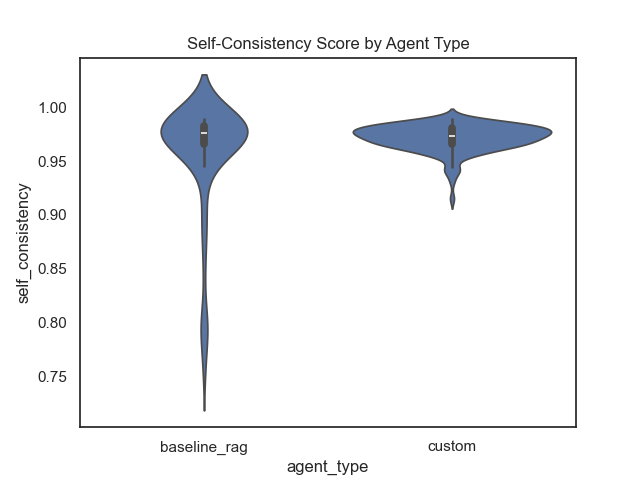
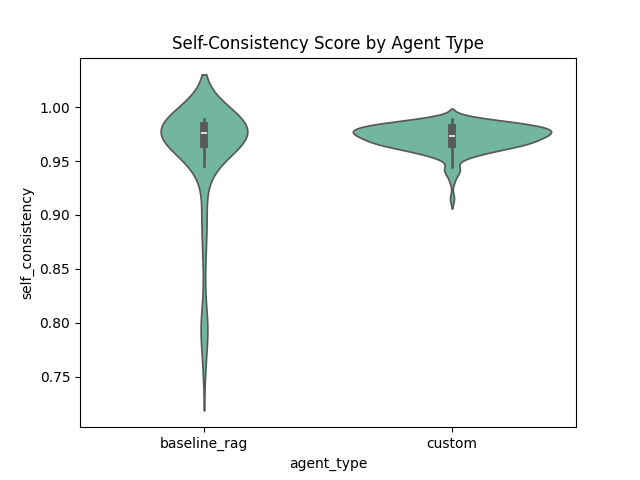
Add section on development tooling and AI assistance; update bibliography with NMBU AI guidelines

diff --git a/thesis/chapters/method.tex b/thesis/chapters/method.tex
@@ -531,3 +531,45 @@ from normality \cite{levene1960} --- a necessary property given the non-normal,
 left-skewed score distributions confirmed by Shapiro-Wilk ($p < 10^{-18}$ for every
 metric).
 
+% -------------------------------------------------------
+
+\section{Development Tooling and AI Assistance}
+
+This section documents the tools and practices used during the development of this thesis — both the software infrastructure supporting the project and the role of AI assistance in the process.
+
+\subsection{Version Control and Repository Structure}
+
+The entire project is maintained in a single Git monorepo hosted on GitHub. This encompasses the agent source code, auxiliary modules (\texttt{ui}, \texttt{evals}, \texttt{data-viewer}), the evaluation datasets, and the \LaTeX{} source for this thesis. Keeping all artefacts in one repository simplifies cross-referencing between the written thesis and the underlying implementation, and allows figures generated in the evaluation notebooks to be committed directly to the \texttt{thesis/figures/} directory — making figure updates a matter of running a notebook cell and committing the result. The only assets not stored in the repository are the datasets and case files, which are hosted in Google Cloud Storage due to their size and confidentiality.
+
+Git's branching model and worktree support were used throughout development. Feature branches isolated experimental work from the stable main branch, and Git worktrees allowed parallel development — for example, running an evaluation trial on one worktree while implementing new features in another — without disrupting the working state.
+
+\subsection{Dependency Management}
+
+Python dependencies are managed with \textbf{uv}, a fast, standards-compliant package manager. \texttt{uv}'s workspace feature allows all four Python packages (\texttt{agent}, \texttt{ui}, \texttt{evals}, \texttt{data-viewer}) to share a single lock file and virtual environment root while maintaining separate dependency declarations per package. This was a key practical consideration for a monorepo of this scope.
+
+\subsection{Report Authoring}
+
+The thesis is written in \LaTeX{} and compiled using \texttt{latexmk}, which automates the multi-pass build required for references, cross-references, and bibliography. The source is version-controlled alongside the codebase, enabling tight coupling between the report and the implementation: code snippets, figures, and table data are all traceable to specific commits.
+
+\subsection{Data Viewer}
+
+A lightweight \textbf{Streamlit} application (\texttt{data-viewer}) was developed to support dataset work and result inspection. It provides a browser-based interface for browsing and editing both training datasets and case files stored in GCS, displaying evaluation results, and inspecting analysis outputs. This reduced the overhead of dataset quality control and made it easier to identify issues during ground-truth annotation.
+
+\subsection{Use of AI Assistance}
+\label{sec:ai-use}
+
+AI tools were used during the development of this thesis in accordance with NMBU's guidelines for the use of artificial intelligence in academic work \cite{nmbu_ai_guidelines}. All use is disclosed here as required.
+
+The primary tool was \textbf{Claude Code} (Anthropic), a CLI-based AI assistant integrated into the IDE.
+
+\paragraph{Code.}
+Claude Code was used for code review, targeted refactoring, and implementation of cross-cutting infrastructure concerns — such as retry logic, rate-limit handling, and concurrency patterns — that are peripheral to the core research contribution. All architectural decisions, data model design, and system-level trade-offs were made independently by the author.
+
+\paragraph{Report writing.}
+AI assistance was used for reformulation and rewording of written content, improving clarity and maintaining a consistent academic register. It was also used to locate relevant background literature and identify applicable theoretical frameworks. All substantive content, arguments, and conclusions are the author's own, and all AI-assisted formulations have been critically reviewed and verified.
+
+\paragraph{Dataset construction.}
+For the THRD-2021 dataset, synthetic case materials (correspondence, internal notes, and supporting documents) were generated using an LLM, seeded from the authentic court record. This approach is discussed in Section~\ref{sec:dataset-limitations} as a methodological caveat: while the synthetic documents were constructed to be consistent with the factual matrix of the authentic record, there is an inherent risk of logical inconsistencies between the real and synthetic materials, and this constitutes a recognised limitation of that dataset.
+
+Ground-truth answers were reviewed and validated using AI-assisted quality control, in collaboration with legal experts at BAHR AS.
+
